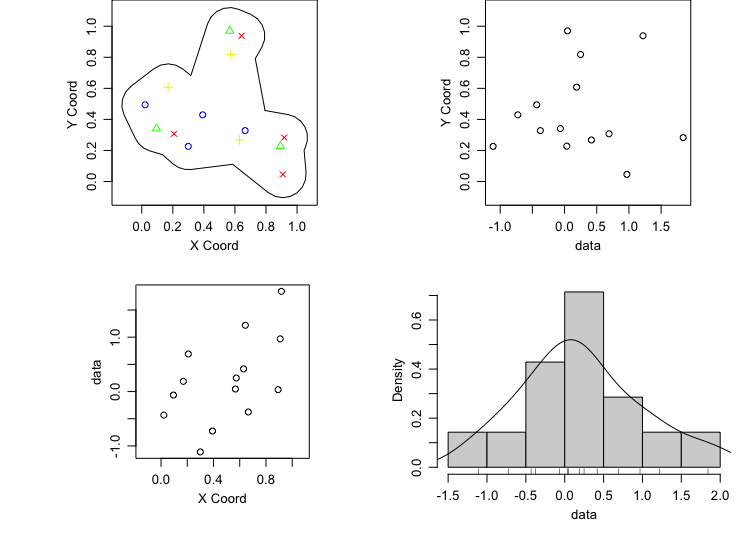
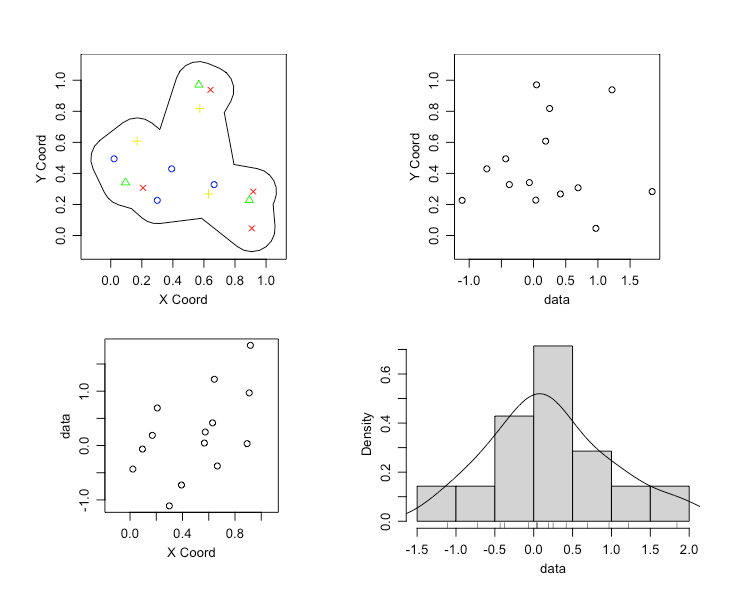
update images

diff --git a/software.html b/software.html
@@ -324,12 +324,17 @@ mygeo$borders &lt;- get.borders(cbind(lons,lats), concavity_param = 1, frac = .1
 
 ## Plotting
 plot(mygeo)</code></pre>
-<p><img src="images/Example.png" style="width:60%; border: 2px solid #4582ec;
+<div class="columns">
+<div class="column" style="width:50%;">
+<p><img src="images/Example.png" style="width:95%; border: 2px solid #4582ec;
                                                 border-radius: 4px;
                                                 border-radius: 8px" align="center"></p>
-<p><img src="images/image.png" style="width:60%; border: 2px solid #4582ec;
+</div><div class="column" style="width:50%;">
+<p><img src="images/image.png" style="width:95%; border: 2px solid #4582ec;
                                                 border-radius: 4px;
                                                 border-radius: 8px" align="center"></p>
+</div>
+</div>
 </div>
 
 
